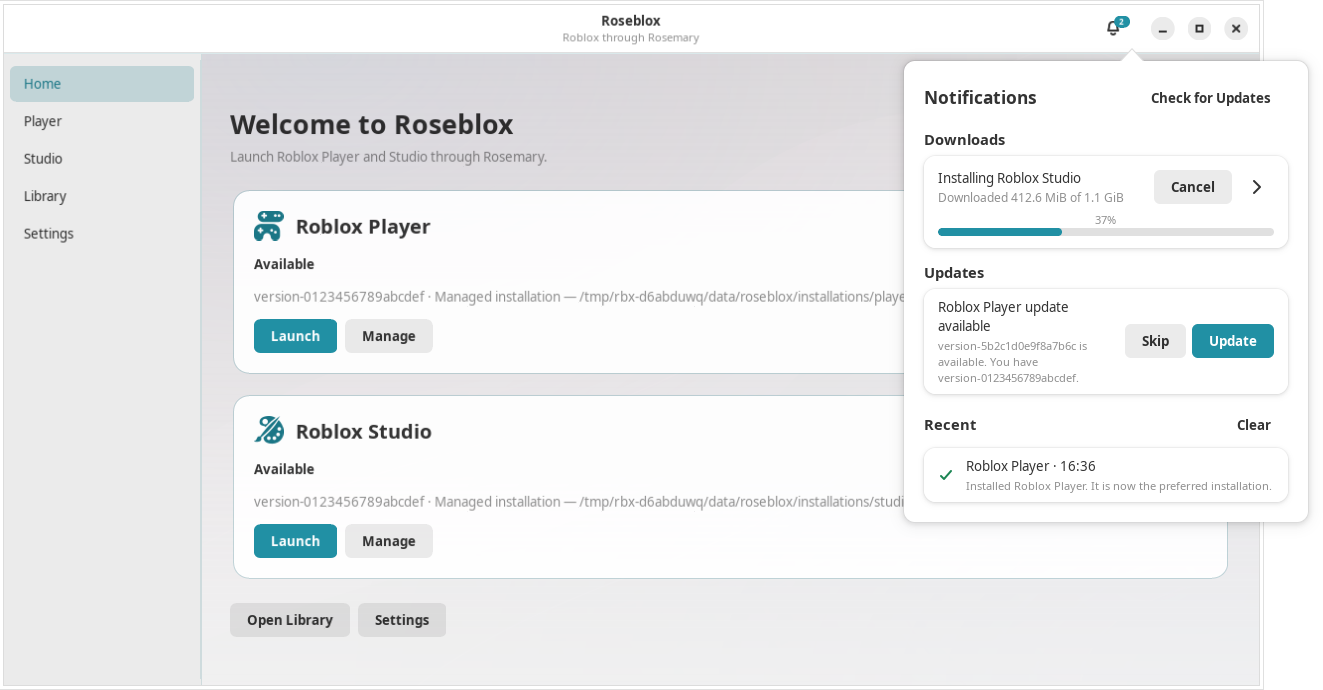
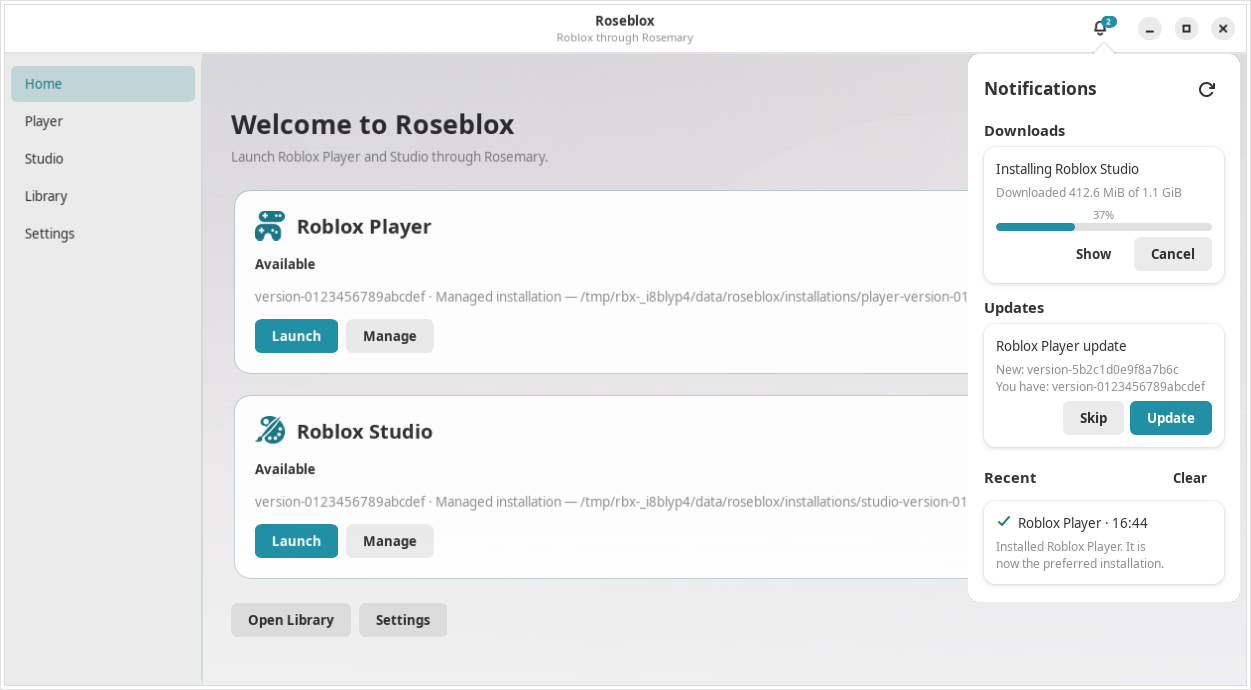
Keep the notification popover centered under the bell near the screen edge

diff --git a/src/roseblox/resources/style.css b/src/roseblox/resources/style.css
@@ -127,7 +127,3 @@ row.error-row .subtitle {
   font-size: 8px;
   font-weight: 800;
 }
-
-.notification-center row {
-  min-width: 360px;
-}

diff --git a/src/roseblox/pages/notification_center.py b/src/roseblox/pages/notification_center.py
@@ -8,14 +8,17 @@ from dataclasses import dataclass
 
 import gi
 
-gi.require_version("Adw", "1")
 gi.require_version("Gtk", "4.0")
-from gi.repository import Adw, GLib, Gtk
+from gi.repository import GLib, Gtk, Pango
 
 from ..backend.setup import SetupSettingsError
 from ..backend.updates import APP_TITLES, CHECK_INTERVAL_SECONDS, AvailableUpdate, check_for_updates
 
 RECENT_LIMIT = 20
+# Narrow enough that the popover stays centered under the bell even when the window
+# is maximized and the bell is close to the screen edge.
+POPOVER_WIDTH = 240
+_TEXT_WIDTH_CHARS = 40  # Upper bound; the popover width decides where text wraps.
 
 
 @dataclass(frozen=True)
@@ -69,18 +72,21 @@ class NotificationCenter(Gtk.MenuButton):
         self.set_popover(self.popover)
 
         content = Gtk.Box(orientation=Gtk.Orientation.VERTICAL, spacing=14)
-        content.set_margin_top(12)
-        content.set_margin_bottom(12)
-        content.set_margin_start(12)
-        content.set_margin_end(12)
+        content.set_size_request(POPOVER_WIDTH, -1)
+        content.set_margin_top(10)
+        content.set_margin_bottom(10)
+        content.set_margin_start(8)
+        content.set_margin_end(8)
         heading_row = Gtk.Box(orientation=Gtk.Orientation.HORIZONTAL, spacing=8)
         heading = Gtk.Label(label="Notifications")
         heading.add_css_class("title-4")
         heading.set_halign(Gtk.Align.START)
         heading.set_hexpand(True)
         heading_row.append(heading)
-        self.check_button = Gtk.Button.new_with_label("Check for Updates")
+        self.check_button = Gtk.Button.new_from_icon_name("view-refresh-symbolic")
         self.check_button.add_css_class("flat")
+        self.check_button.set_tooltip_text("Check for Updates")
+        self.check_button.update_property([Gtk.AccessibleProperty.LABEL], ["Check for Updates"])
         self.check_button.connect("clicked", lambda _button: self.check_updates())
         heading_row.append(self.check_button)
         content.append(heading_row)
@@ -90,7 +96,7 @@ class NotificationCenter(Gtk.MenuButton):
         self.empty_label.set_wrap(True)
         self.empty_label.set_justify(Gtk.Justification.CENTER)
         self.empty_label.set_halign(Gtk.Align.CENTER)
-        self.empty_label.set_max_width_chars(40)
+        self.empty_label.set_max_width_chars(_TEXT_WIDTH_CHARS)
         self.empty_label.set_margin_top(12)
         self.empty_label.set_margin_bottom(12)
         content.append(self.empty_label)
@@ -111,7 +117,7 @@ class NotificationCenter(Gtk.MenuButton):
         self.status_label.add_css_class("dim-label")
         self.status_label.add_css_class("caption")
         self.status_label.set_wrap(True)
-        self.status_label.set_max_width_chars(48)
+        self.status_label.set_max_width_chars(_TEXT_WIDTH_CHARS)
         self.status_label.set_halign(Gtk.Align.START)
         self.status_label.set_xalign(0)
         self.status_label.set_visible(False)
@@ -121,7 +127,6 @@ class NotificationCenter(Gtk.MenuButton):
         scroller.set_policy(Gtk.PolicyType.NEVER, Gtk.PolicyType.AUTOMATIC)
         scroller.set_propagate_natural_height(True)
         scroller.set_max_content_height(560)
-        scroller.set_min_content_width(380)
         scroller.set_child(content)
         self.popover.set_child(scroller)
         self.connect("destroy", lambda *_: self._stop_timer())
@@ -219,7 +224,7 @@ class NotificationCenter(Gtk.MenuButton):
             return
         self._checking = True
         self.check_button.set_sensitive(False)
-        self.check_button.set_label("Checking…")
+        self.check_button.set_tooltip_text("Checking for updates…")
         skipped = dict(getattr(getattr(self.window, "setup_state", None), "skipped_versions", {}) or {})
         threading.Thread(target=self._check_worker, args=(skipped,), daemon=True).start()
 
@@ -240,7 +245,7 @@ class NotificationCenter(Gtk.MenuButton):
     def _check_finished(self, updates: list[AvailableUpdate], errors: dict[str, str]) -> bool:
         self._checking = False
         self.check_button.set_sensitive(True)
-        self.check_button.set_label("Check for Updates")
+        self.check_button.set_tooltip_text("Check for Updates")
         offered = {update.app_type for update in updates}
         # A failed lookup keeps the update already shown for that app.
         kept = [update for update in self.updates if update.app_type in errors and update.app_type not in offered]
@@ -305,55 +310,66 @@ class NotificationCenter(Gtk.MenuButton):
         self.status_label.set_visible(bool(problems))
         self._render_badge()
 
-    def _download_row(self, app_type: str, state) -> Gtk.Widget:
-        title = APP_TITLES.get(app_type, app_type)
+    @staticmethod
+    def _label(text: str, *css_classes: str) -> Gtk.Label:
+        label = Gtk.Label(label=text)
+        for css_class in css_classes:
+            label.add_css_class(css_class)
+        label.set_halign(Gtk.Align.START)
+        label.set_xalign(0)
+        label.set_wrap(True)
+        label.set_wrap_mode(Pango.WrapMode.WORD_CHAR)
+        label.set_max_width_chars(_TEXT_WIDTH_CHARS)
+        return label
+
+    def _card_row(self, title: str, subtitle: str) -> Gtk.ListBoxRow:
         row = Gtk.ListBoxRow()
         row.set_activatable(False)
-        row.add_css_class("notification-download")
         box = Gtk.Box(orientation=Gtk.Orientation.VERTICAL, spacing=6)
         box.set_margin_top(10)
         box.set_margin_bottom(10)
-        box.set_margin_start(12)
-        box.set_margin_end(12)
+        box.set_margin_start(10)
+        box.set_margin_end(10)
         row.set_child(box)
+        row.content = box
+        row.title_label = self._label(title)
+        box.append(row.title_label)
+        row.message_label = self._label(subtitle, "dim-label", "caption")
+        box.append(row.message_label)
+        return row
 
-        top = Gtk.Box(orientation=Gtk.Orientation.HORIZONTAL, spacing=8)
-        labels = Gtk.Box(orientation=Gtk.Orientation.VERTICAL, spacing=2)
-        labels.set_hexpand(True)
-        row.title_label = Gtk.Label(label=f"Installing {title}")
-        row.title_label.set_halign(Gtk.Align.START)
-        row.title_label.set_xalign(0)
-        labels.append(row.title_label)
-        row.message_label = Gtk.Label(label=state.message or "Working…")
-        row.message_label.add_css_class("dim-label")
-        row.message_label.add_css_class("caption")
-        row.message_label.set_halign(Gtk.Align.START)
-        row.message_label.set_xalign(0)
-        row.message_label.set_wrap(True)
-        row.message_label.set_max_width_chars(40)
-        labels.append(row.message_label)
-        top.append(labels)
-        if state.cancellable:
-            cancel = Gtk.Button.new_with_label("Cancel")
-            cancel.set_valign(Gtk.Align.CENTER)
-            cancel.connect("clicked", self._cancel_clicked, app_type)
-            top.append(cancel)
-        open_button = Gtk.Button.new_from_icon_name("go-next-symbolic")
+    @staticmethod
+    def _button_row(*buttons: Gtk.Widget) -> Gtk.Box:
+        box = Gtk.Box(orientation=Gtk.Orientation.HORIZONTAL, spacing=6)
+        box.set_halign(Gtk.Align.END)
+        for button in buttons:
+            box.append(button)
+        return box
+
+    def _download_row(self, app_type: str, state) -> Gtk.Widget:
+        title = APP_TITLES.get(app_type, app_type)
+        row = self._card_row(f"Installing {title}", state.message or "Working…")
+        row.add_css_class("notification-download")
+        row.progress_bar = Gtk.ProgressBar()
+        if state.fraction is None:
+            row.progress_bar.pulse()
+        else:
+            row.progress_bar.set_fraction(state.fraction)
+            row.progress_bar.set_text(state.progress_text or f"{state.fraction:.0%}")
+            row.progress_bar.set_show_text(True)
+        row.content.append(row.progress_bar)
+
+        buttons = []
+        open_button = Gtk.Button.new_with_label("Show")
         open_button.add_css_class("flat")
-        open_button.set_valign(Gtk.Align.CENTER)
         open_button.set_tooltip_text(f"Open the {title} page")
         open_button.connect("clicked", self._open_clicked, app_type)
-        top.append(open_button)
-        box.append(top)
-
-        progress = Gtk.ProgressBar()
-        if state.fraction is None:
-            progress.pulse()
-        else:
-            progress.set_fraction(state.fraction)
-            progress.set_text(state.progress_text or f"{state.fraction:.0%}")
-            progress.set_show_text(True)
-        box.append(progress)
+        buttons.append(open_button)
+        if state.cancellable:
+            cancel = Gtk.Button.new_with_label("Cancel")
+            cancel.connect("clicked", self._cancel_clicked, app_type)
+            buttons.append(cancel)
+        row.content.append(self._button_row(*buttons))
         return row
 
     def _cancel_clicked(self, _button, app_type: str) -> None:
@@ -366,39 +382,34 @@ class NotificationCenter(Gtk.MenuButton):
         self.window.navigate_to(app_type)
 
     def _update_row(self, update: AvailableUpdate) -> Gtk.Widget:
-        row = Adw.ActionRow.new()
-        row.set_title(f"{APP_TITLES.get(update.app_type, update.app_type)} update available")
-        subtitle = f"{update.version} is available."
+        subtitle = f"New: {update.version}"
         if update.installed_version:
-            subtitle += f" You have {update.installed_version}."
-        row.set_subtitle(GLib.markup_escape_text(subtitle))
-        row.set_subtitle_lines(3)
+            subtitle += f"\nYou have: {update.installed_version}"
+        row = self._card_row(f"{APP_TITLES.get(update.app_type, update.app_type)} update", subtitle)
         skip = Gtk.Button.new_with_label("Skip")
-        skip.set_valign(Gtk.Align.CENTER)
         skip.set_tooltip_text("Skip this version")
         skip.connect("clicked", self._skip_clicked, update)
-        row.add_suffix(skip)
         install = Gtk.Button.new_with_label("Update")
         install.add_css_class("suggested-action")
-        install.set_valign(Gtk.Align.CENTER)
         install.set_sensitive(update.app_type not in self.operations)
         install.connect("clicked", self._update_clicked, update.app_type)
-        row.add_suffix(install)
+        row.content.append(self._button_row(skip, install))
         return row
 
-    @staticmethod
-    def _recent_row(entry: RecentEntry) -> Gtk.Widget:
-        row = Adw.ActionRow.new()
+    def _recent_row(self, entry: RecentEntry) -> Gtk.Widget:
         title = APP_TITLES.get(entry.app_type, entry.app_type)
         when = time.strftime("%H:%M", time.localtime(entry.finished_at))
-        row.set_title(f"{title} · {when}")
-        row.set_subtitle(GLib.markup_escape_text(entry.message))
-        row.set_subtitle_lines(3)
+        row = self._card_row(f"{title} · {when}", entry.message)
         icon_name, style = {
             "failed": ("dialog-error-symbolic", "error"),
             "cancelled": ("process-stop-symbolic", "dim-label"),
         }.get(entry.outcome, ("object-select-symbolic", "success"))
         icon = Gtk.Image.new_from_icon_name(icon_name)
         icon.add_css_class(style)
-        row.add_prefix(icon)
+        icon.set_valign(Gtk.Align.START)
+        title_row = Gtk.Box(orientation=Gtk.Orientation.HORIZONTAL, spacing=6)
+        row.content.remove(row.title_label)
+        title_row.append(icon)
+        title_row.append(row.title_label)
+        row.content.prepend(title_row)
         return row

diff --git a/tests/test_window.py b/tests/test_window.py
@@ -456,8 +456,7 @@ class RealWindowTests(unittest.TestCase):
         self.assertEqual(expected, controller.progress_bar.get_text())
 
         row = window.notification_center.downloads_list.get_row_at_index(0)
-        bar = row.get_child().get_last_child()
-        self.assertEqual(expected, bar.get_text())
+        self.assertEqual(expected, row.progress_bar.get_text())
         setup_row = window.onboarding_page._app_widgets["player"][0]
         self.assertTrue(setup_row.get_subtitle().endswith(expected))
 
@@ -487,8 +486,8 @@ class RealWindowTests(unittest.TestCase):
             self.assertEqual([update], center.updates)
             self.assertEqual("1", center.badge.get_text())
             row = center.updates_list.get_row_at_index(0)
-            self.assertEqual("Roblox Player update available", row.get_title())
-            self.assertIn("You have version-0123456789abcdef", row.get_subtitle())
+            self.assertEqual("Roblox Player update", row.title_label.get_text())
+            self.assertIn("You have: version-0123456789abcdef", row.message_label.get_text())
 
             with patch.object(window, "install_update") as install_update:
                 center._update_clicked(None, "player")
